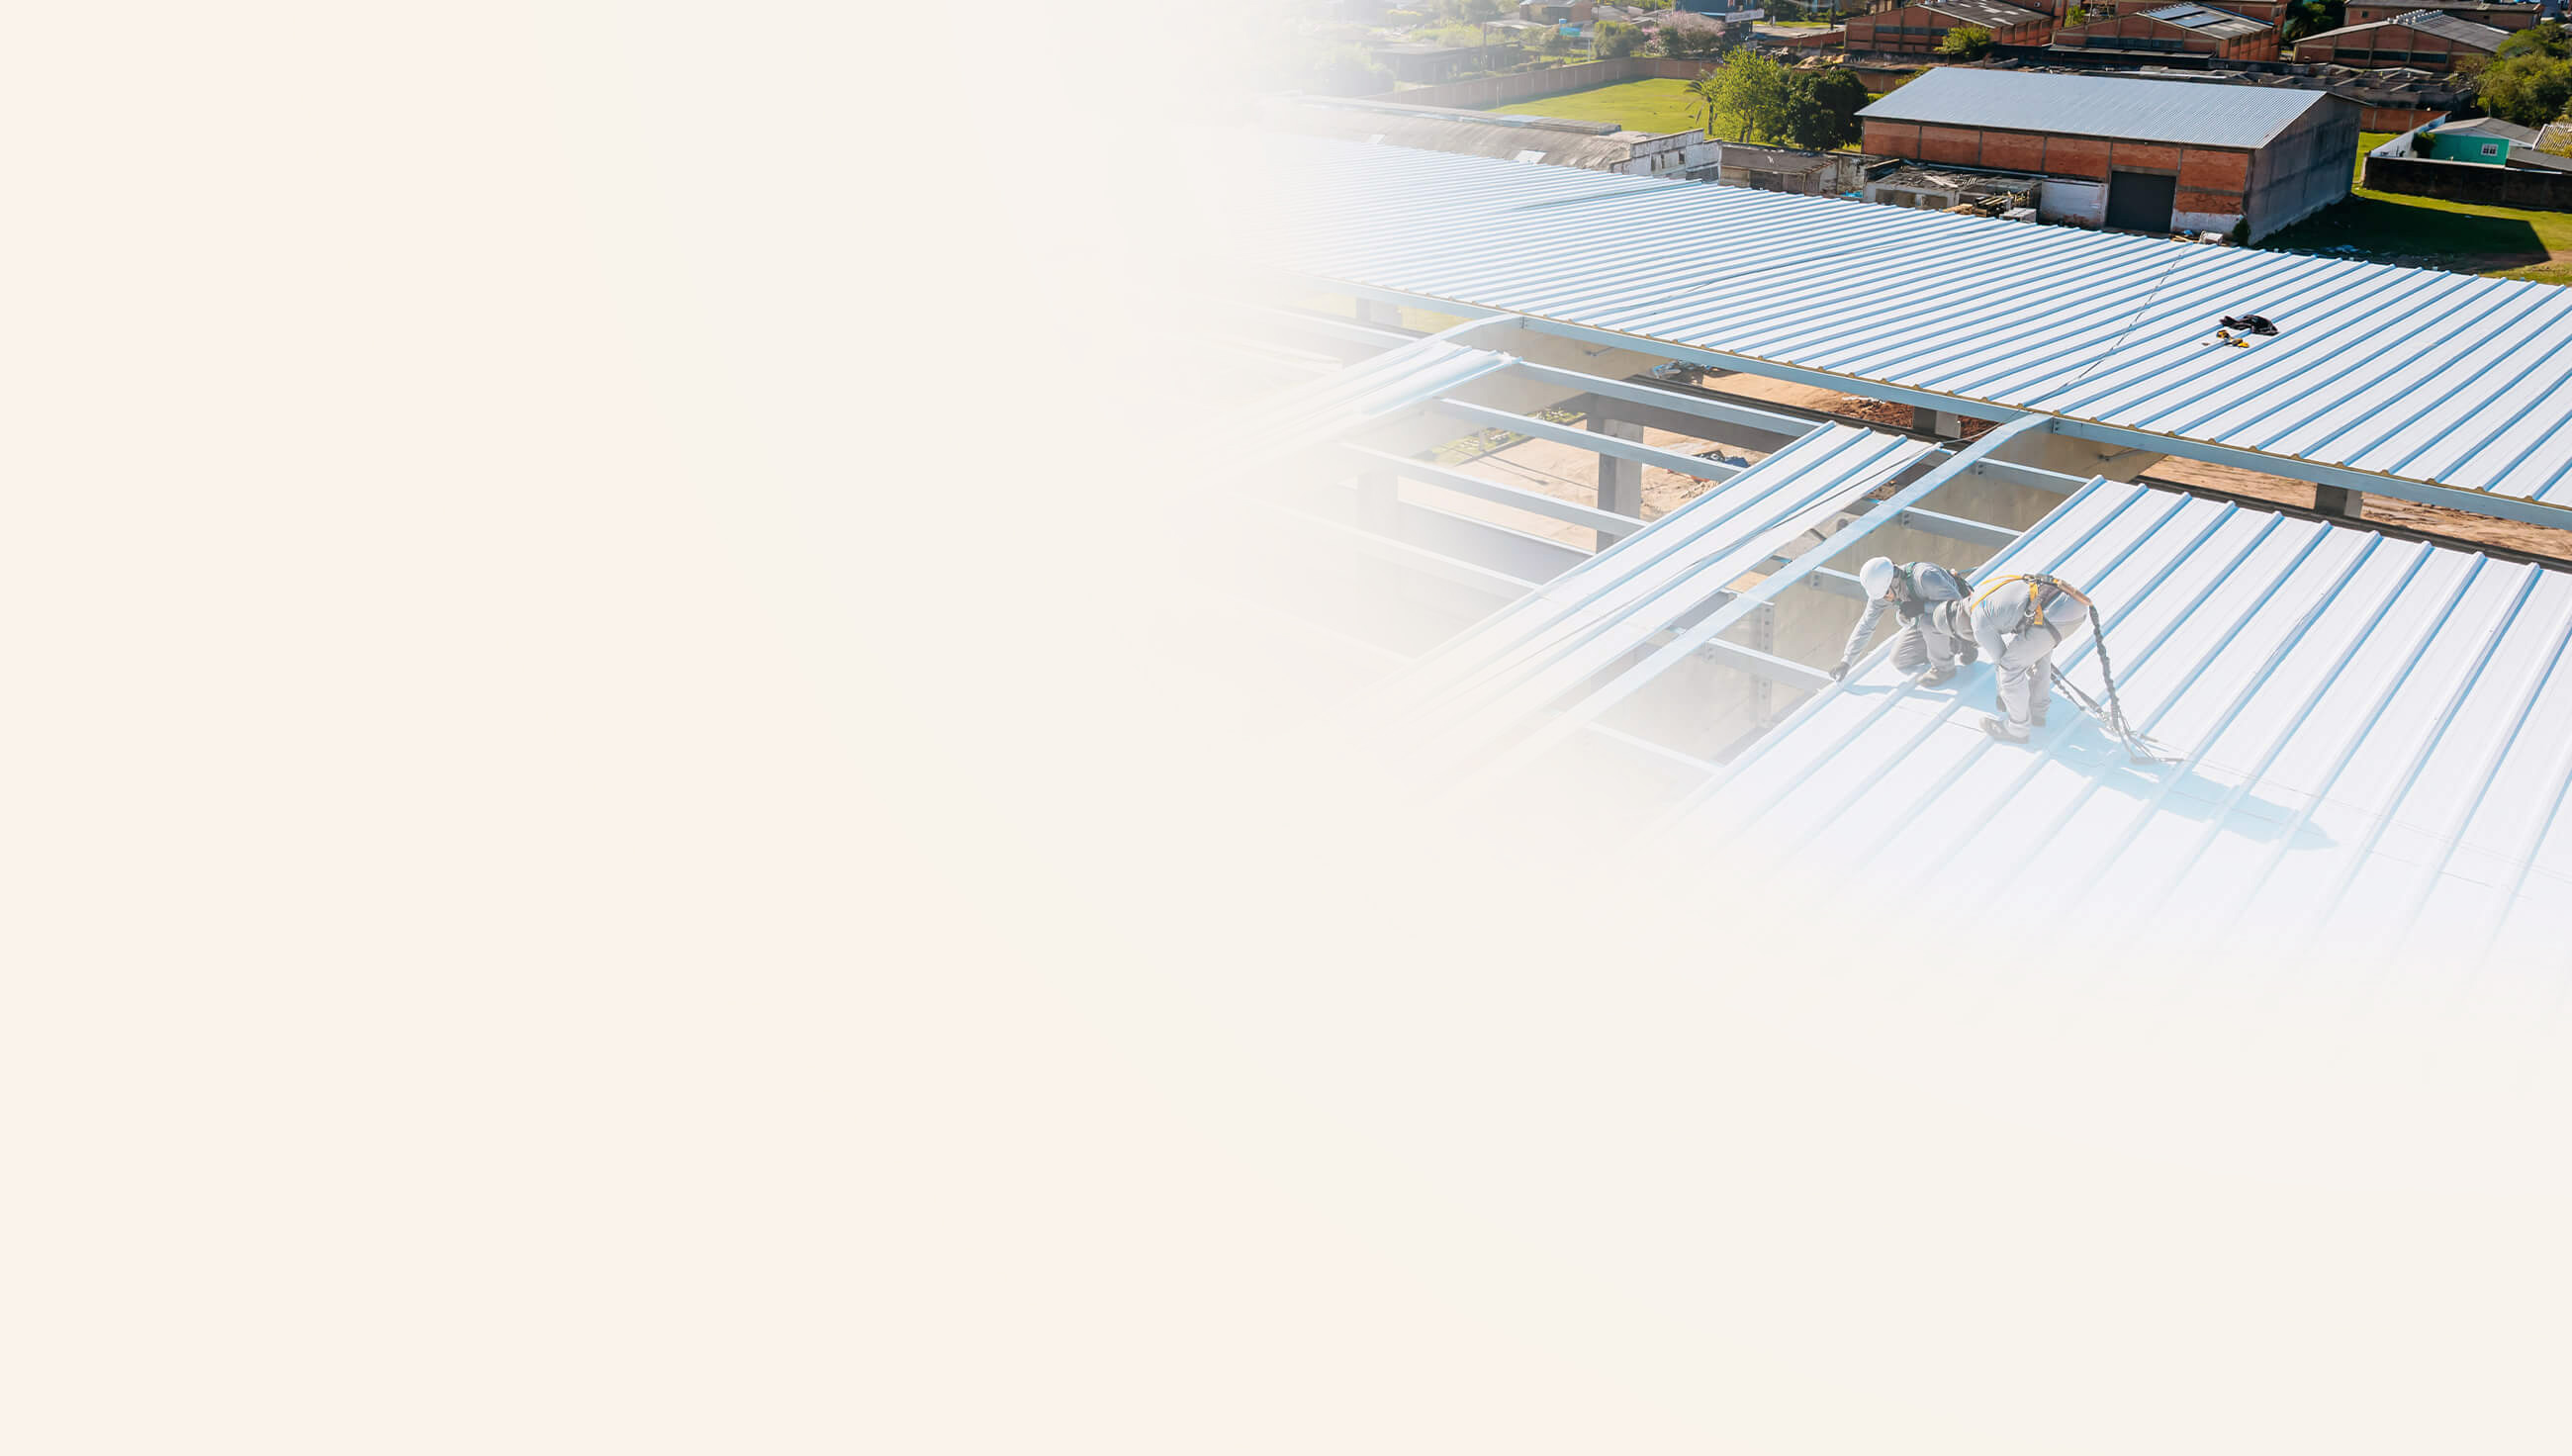
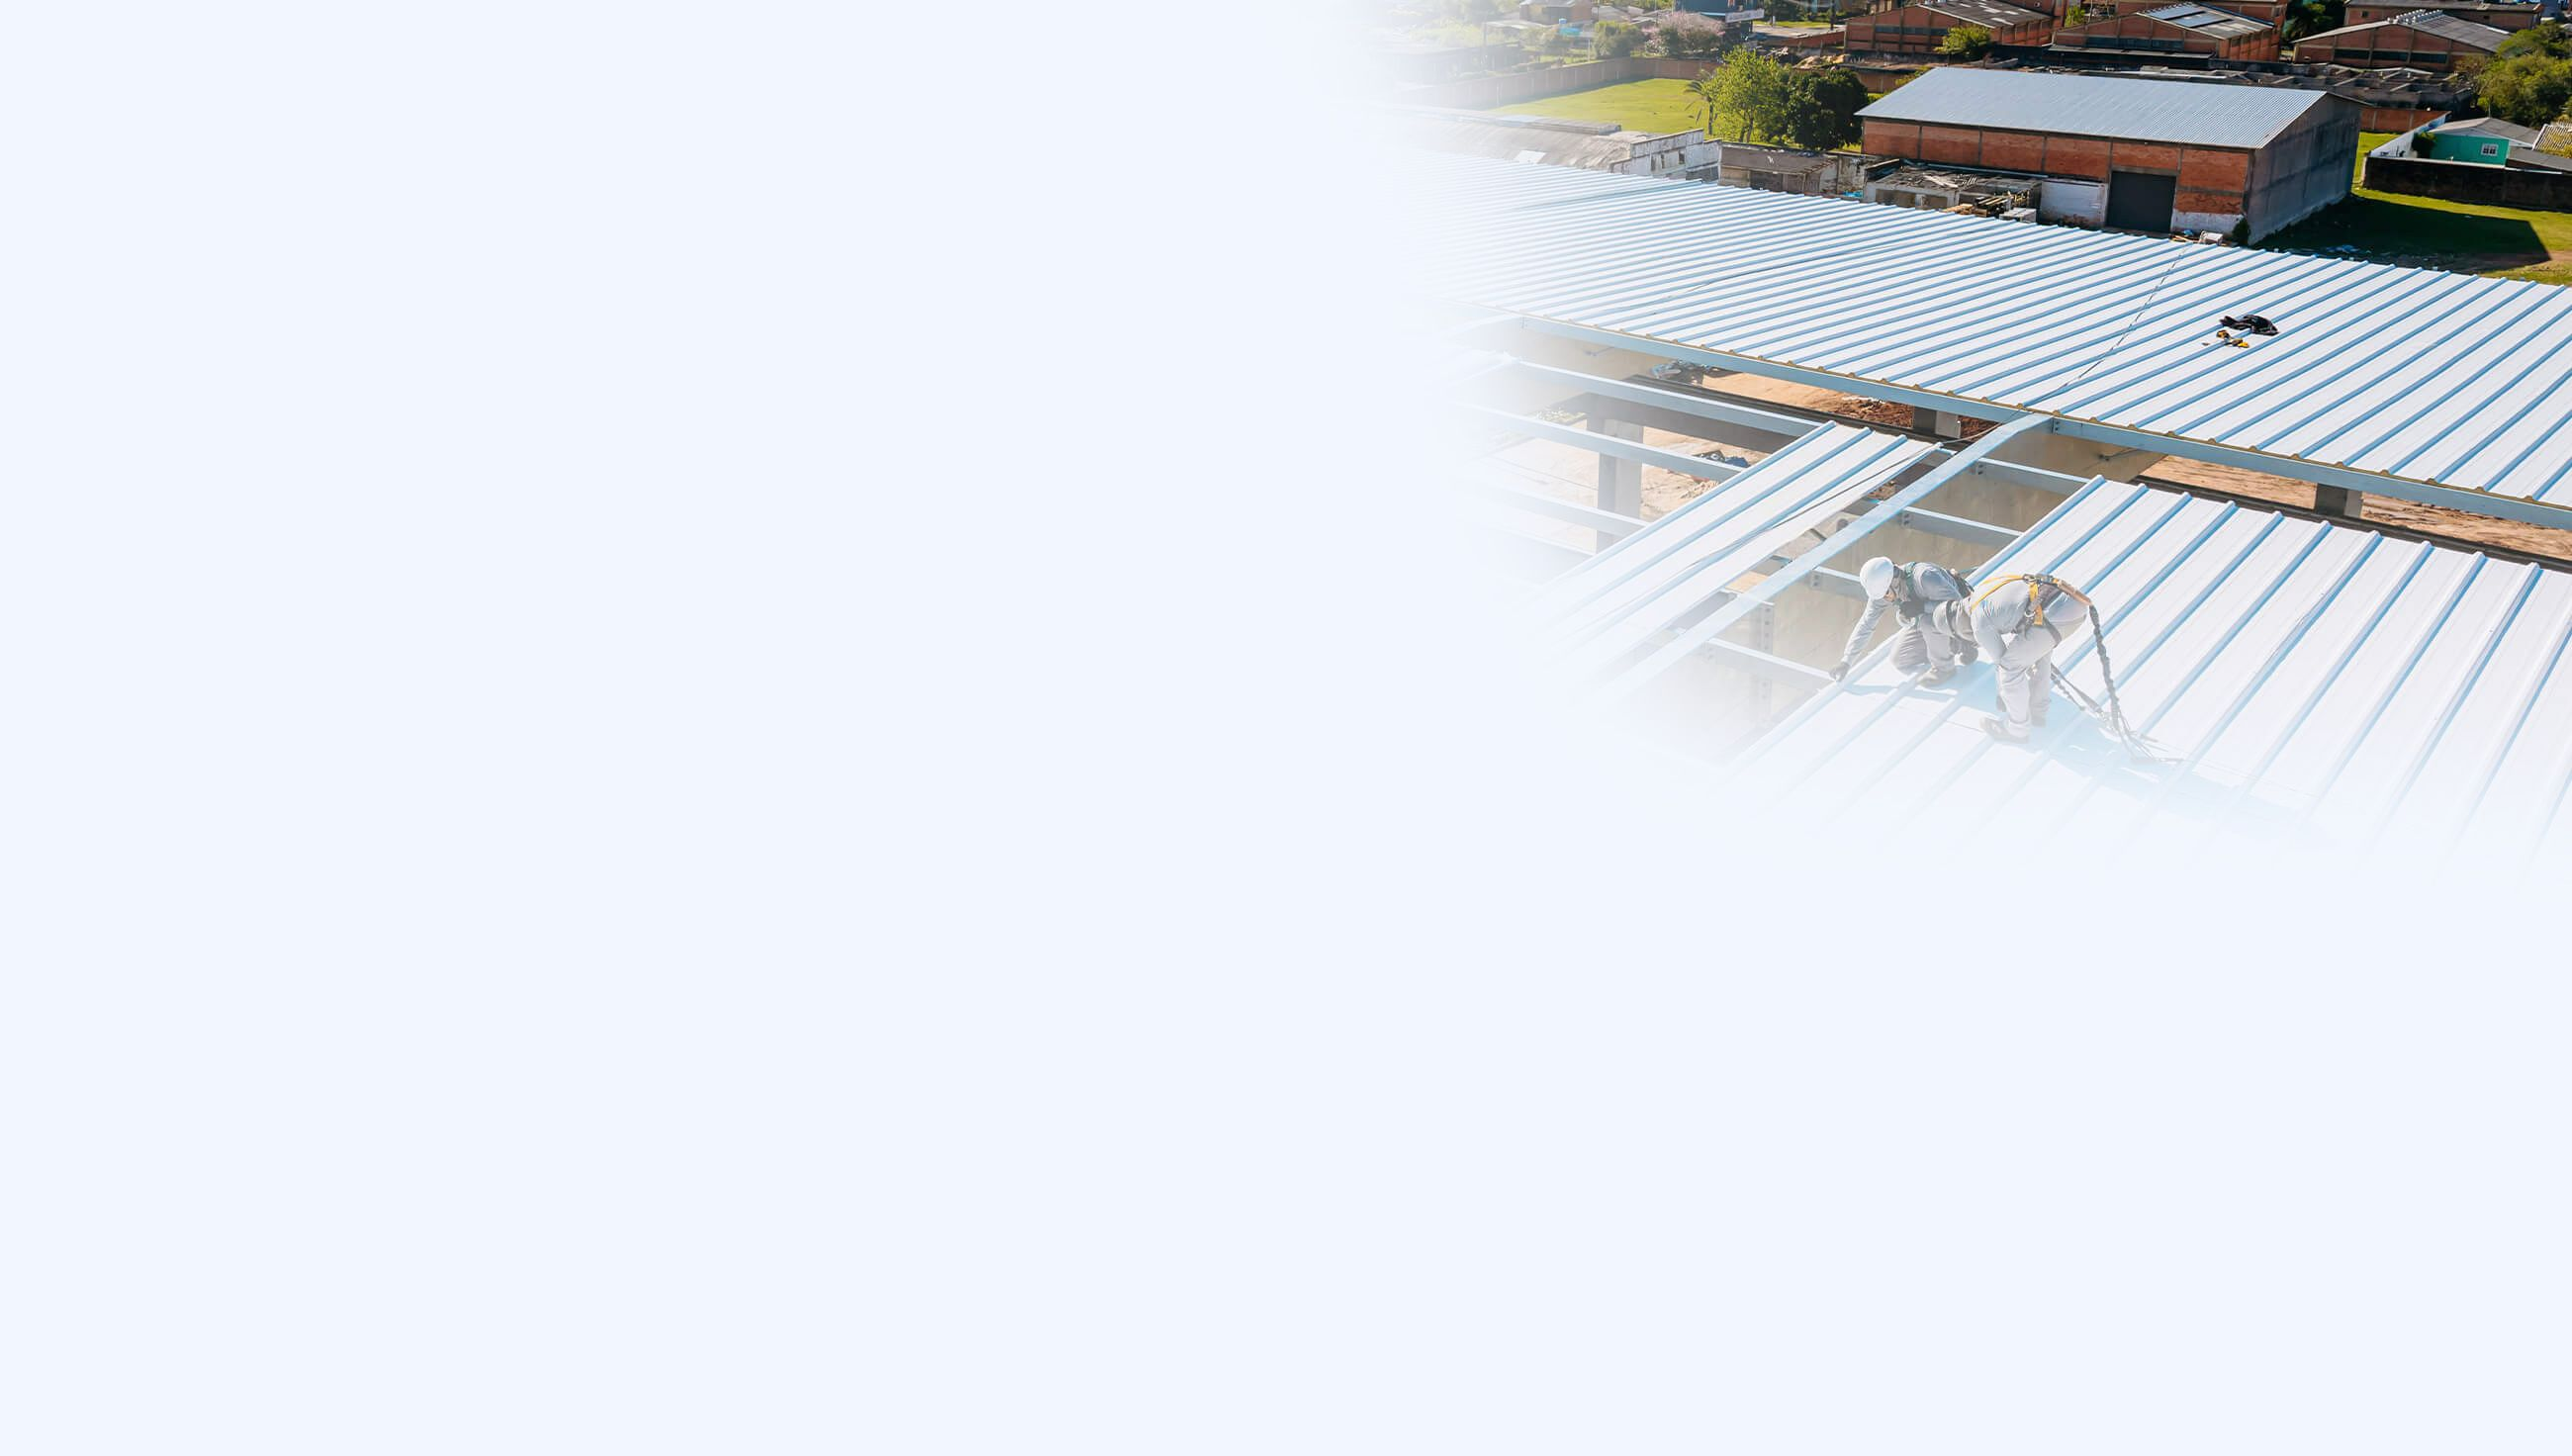
Add files via upload

Changed region(s): [[0.4985, 0.0, 0.6854, 0.5312], [0.7788, 0.5, 0.9035, 0.5938], [0.9969, 0.5312, 1.0, 0.5625]]

diff --git a/src/app/layout.tsx b/src/app/layout.tsx
@@ -1,26 +1,15 @@
 import type { Metadata } from "next";
-import localFont from "next/font/local";
+import { Manrope } from "next/font/google";
 import "./globals.css";
 import Header from "../components/Header";
 import Footer from "../components/Footer";
 import WhatsAppButton from "@/components/WhatsAppButton";
 import MobileRedirect from "@/components/MobileRedirect";
 
-// Fonte Aeonik Trial
-const aeonik = localFont({
-  src: [
-    {
-      path: "../../public/fonts/aeoniktrial-regular.otf",
-      weight: "400",
-      style: "normal",
-    },
-    {
-      path: "../../public/fonts/aeoniktrial-bold.otf",
-      weight: "700",
-      style: "normal",
-    },
-  ],
-  variable: "--font-aeonik",
+const manrope = Manrope({
+  subsets: ["latin"],
+  weight: ["400", "500", "600", "700"],
+  variable: "--font-manrope",
 });
 
 export const metadata: Metadata = {
@@ -31,12 +20,14 @@ export const metadata: Metadata = {
   },
 };
 
-export default function RootLayout({ children }: { children: React.ReactNode }) {
+export default function RootLayout({
+  children,
+}: {
+  children: React.ReactNode;
+}) {
   return (
     <html lang="pt-BR">
-      <body className={`${aeonik.variable} antialiased`}>
-        
-
+      <body className={`${manrope.variable} antialiased`}>
         <div className="absolute w-full top-0">
           <Header />
         </div>

diff --git a/src/app/globals.css b/src/app/globals.css
@@ -1,27 +1,29 @@
 @import "tailwindcss";
 
 :root {
-  --background: #F9F3EA;
+  --background: #F2F7FF;
   --foreground: #171717;
-  font-family: var(--font-aeonik), sans-serif;
 }
 
 
 @media (prefers-color-scheme: dark) {
   :root {
-    --background: #F9F3EA;
-    --foreground: #F9F3EA;
+    --background: #F2F7FF;
+    --foreground: #F2F7FF;
     
   }
+}
+
+:root {
+  --background: #F2F7FF;
+  --foreground: #171717;
 }
 
 body {
   background: var(--background);
   color: var(--foreground);
-   font-family: var(--font-aeonik), sans-serif;
-
+  font-family: var(--font-manrope), sans-serif;
 }
-
 
 
 .bg-dark-blue{
@@ -84,4 +86,9 @@ body {
   section[id] {
     scroll-margin-top: 100px; /* ajusta conforme a altura do header */
   }
+}
+
+.txt-force-color{
+  color: white !important;
+    text-shadow: 0px 2px 6px rgba(0, 0, 0, 0.8) !important;
 }

diff --git a/src/components/Hero.tsx b/src/components/Hero.tsx
@@ -97,7 +97,7 @@ export default function Hero() {
 
   return (
     <>
-      <div className="relative w-full h-[600px] md:h-[850px] sm:h-[700px] flex justify-start items-start bg-[#F9F3EA] z-30">
+      <div className="relative w-full h-[600px] md:h-[850px] sm:h-[700px] flex justify-start items-start bg-[#F2F7FF] z-30">
         {/* IMAGEM DE FUNDO */}
         <div
           ref={bgRef}
@@ -121,7 +121,7 @@ sizes="(max-width: 768px) 828px, 1920px"          />
           {/* Linha 1 */}
           <h1
             ref={line1Ref}
-            className="text-xl sm:text-2xl md:text-3xl lg:text-3xl xl:text-[34px] 2xl:text-5xl font-bold mb-1 txt-white text-center lg:text-left leading-tight flex flex-wrap"
+            className="text-xl sm:text-2xl md:text-3xl lg:text-3xl xl:text-[34px] 2xl:text-5xl font-bold mb-1 txt-force-color text-center lg:text-left leading-tight flex flex-wrap"
           >
             {splitText(line1)}
           </h1>
@@ -129,7 +129,7 @@ sizes="(max-width: 768px) 828px, 1920px"          />
           {/* Linha 2 */}
           <h1
             ref={line2Ref}
-            className="text-xl sm:text-2xl md:text-3xl lg:text-3xl xl:text-[34px] 2xl:text-5xl font-bold mb-4 txt-white text-center lg:text-left leading-tight flex flex-wrap"
+            className="text-xl sm:text-2xl md:text-3xl lg:text-3xl xl:text-[34px] 2xl:text-5xl font-bold mb-4 txt-force-color text-center lg:text-left leading-tight flex flex-wrap"
           >
             {splitText(line2)}
           </h1>
@@ -138,7 +138,7 @@ sizes="(max-width: 768px) 828px, 1920px"          />
           <p
             ref={smallTextRef}
             // começa invisível via class tailwind
-            className="opacity-0 translate-y-5 text-sm sm:text-base md:text-lg lg:text-lg xl:text-md 2xl:text-xl txt-white mb-4 text-center md:text-left w-[70%] md:w-[60%] sm:w-[60%] lg:w-[60%] xl:w-[60%] 2xl:w-[45%]"
+            className="opacity-0 translate-y-5 text-sm sm:text-base md:text-lg lg:text-lg xl:text-md 2xl:text-xl txt-force-color mb-4 text-center md:text-left w-[70%] md:w-[60%] sm:w-[60%] lg:w-[60%] xl:w-[60%] 2xl:w-[45%]"
             style={{ transform: 'translateY(20px)' }}
           >
             {smallText}

diff --git a/src/app/quem-somos/page.tsx b/src/app/quem-somos/page.tsx
@@ -5,7 +5,7 @@ import Image from "next/image";
 
 export default function QuemSomos() {
   return (
-    <section className="relative w-full bg-[#F9F3EA] overflow-hidden py-0 sm:py-24  px-[12%] md:px-[4%] xl:px-[12%]">
+    <section className="relative w-full bg-[#F2F7FF] overflow-hidden py-0 sm:py-24  px-[12%] md:px-[4%] xl:px-[12%]">
       {/* Imagem vertical esquerda */}
       <div className="absolute top-0 left-0 h-full z-0 hidden lg:block">
         <Image
@@ -101,7 +101,7 @@ export default function QuemSomos() {
   </motion.h2>
 
   <motion.div
-    className="w-full max-w-full lg:max-w-3/4 bg-[#F9F3EA] rounded-b-2xl lg:rounded-b-2xl shadow-xl 
+    className="w-full max-w-full lg:max-w-3/4 bg-[#F2F7FF] rounded-b-2xl lg:rounded-b-2xl shadow-xl 
                p-6 sm:p-10 flex flex-col lg:flex-row gap-10 items-center z-50"
     initial={{ opacity: 1, scale: 1 }}
     whileInView={{ opacity: 1, scale: 1 }}

diff --git a/src/components/Footer.tsx b/src/components/Footer.tsx
@@ -34,7 +34,7 @@ export default function Footer() {
 
             {/* Caixa de informações */}
             <div className="border border-white/60 rounded-xl p-6 flex flex-col space-y-4 max-w-md mx-auto md:mx-0  backdrop-blur-sm">
-              <div className="text-lg md:text-xl leading-relaxed">
+              <div className="text-lg md:text-md leading-relaxed">
                 <strong>Telefones:</strong>{" "}
                 <a href="tel:[phone redacted]" className="hover:underline px-1">
                   (51) 3177-6005
@@ -96,7 +96,7 @@ export default function Footer() {
         <div
           className="
             flex flex-col sm:flex-row justify-center sm:justify-between items-center 
-            bg-[#F9F3EA] text-blue-900 
+            bg-[#F2F7FF] text-blue-900 
             gap-4 sm:gap-6 px-6 sm:px-12 py-5
           "
         >

diff --git a/src/components/Header.tsx b/src/components/Header.tsx
@@ -88,7 +88,7 @@ export default function Header() {
       <header className="fixed w-full z-50">
         <div
           className={`flex w-full items-center justify-between transition-colors ${
-            scrolled || menuOpen || notHome ? 'bg-[#F9F3EA] shadow-md' : 'bg-white/30'
+            scrolled || menuOpen || notHome ? 'bg-[#F2F7FF] shadow-md' : 'bg-[#F2F7FF]/70'
           }`}
         >
           {/* LOGO */}
@@ -144,7 +144,7 @@ export default function Header() {
 
             {/* Navegação principal */}
             <nav className={`flex items-end justify-end font-semibold py-3 pr-[12%] md:pr-[4%] 2xl:pr-[12%] transition-colors duration-500 ${
-              scrolled || notHome ? 'text-[#0C1956]' : 'text-white'
+              scrolled || notHome ? 'text-[#0C1956]' : 'text-[#0C1956]'
             }`}>
               {menu.map((item, i) => {
                 const active = pathname === item.path;

diff --git a/src/app/clientes/page.tsx b/src/app/clientes/page.tsx
@@ -49,7 +49,7 @@ export default function Clientes() {
       </div>
 
       {/* ---------- SEÇÃO IMAGEM FUNDO + CONTEÚDO ---------- */}
-      <div className="relative w-full h-[400px] md:h-[400px] bg-[#F2F7FB]  overflow-visible flex items-center justify-between shadow-lg ">
+      <div className="relative w-full h-[400px] md:h-[400px] bg-[#F2F7FF]  overflow-visible flex items-center justify-between shadow-lg ">
 
         {/* ======== SHAPES DE FUNDO (DIREITA -> ESQUERDA) ======== */}
         <motion.div

diff --git a/src/app/valores/page.tsx b/src/app/valores/page.tsx
@@ -72,7 +72,7 @@ export default function Valores() {
           {cards.map((card, index) => (
             <motion.div
               key={index}
-              className="bg-[#F9F3EA] rounded-xl p-8 flex flex-col items-center justify-center shadow-lg"
+              className="bg-[#FFFFFF] rounded-xl p-8 flex flex-col items-center justify-center shadow-2xl"
               variants={cardVariants}
             >
               <motion.div variants={imgVariants} className="mb-4">